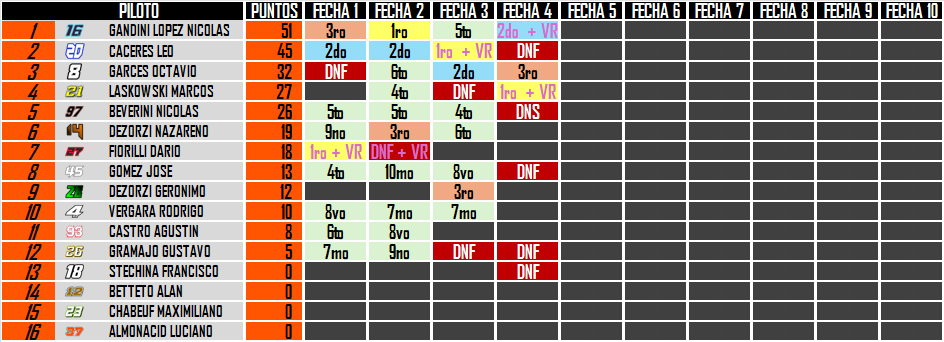
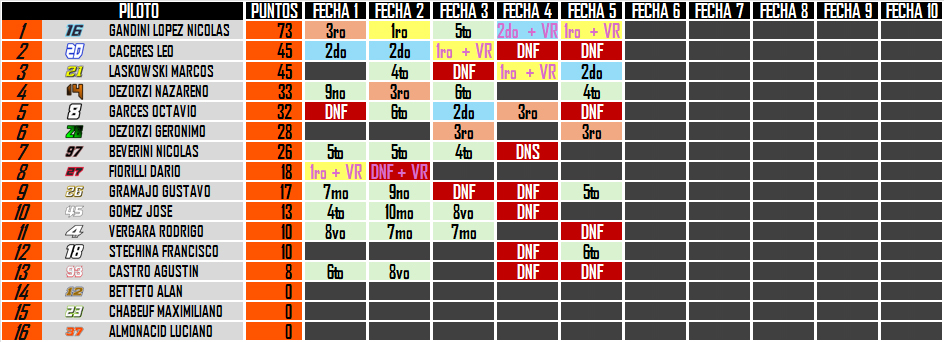
fecha 5 terminada beta

Changed region(s): [[0.2765, 0.0585, 0.6758, 0.8187], [0.0, 0.0585, 0.2458, 0.9942], [0.2765, 0.0585, 0.3072, 0.117]]

diff --git a/main.js b/main.js
@@ -4,7 +4,7 @@ const menudesplegable = document.getElementById('menu-desplegable-sta')
 menubtn.addEventListener('click',function(){if (menudesplegable.classList.contains("menu-desplegado")){menudesplegable.classList.remove("menu-desplegado")}else{menudesplegable.classList.add("menu-desplegado")}})
 
 
-const storeOpening = new Date('jun 30, 2024 14:00:00');
+const storeOpening = new Date('jul 07, 2024 22:00:00');
 setInterval ('setCountdown(storeOpening)', 1000);
 
 function setCountdown(countingDownTime) {

diff --git a/index.html b/index.html
@@ -24,7 +24,7 @@
                 <img src="./assets/circuitos/ovalo.png" alt="" class="img-banner">
                 <p class="banner-name"> 50 DE RAFAELA</p>-->
           </section>
-          <img src="./assets/portada.jpg" alt="" class="banner-section">
+          <img src="./assets/portada6.jpg" alt="" class="banner-section">
     </aside>
     <aside class="banner-countdown">
     <table id="countdown">
